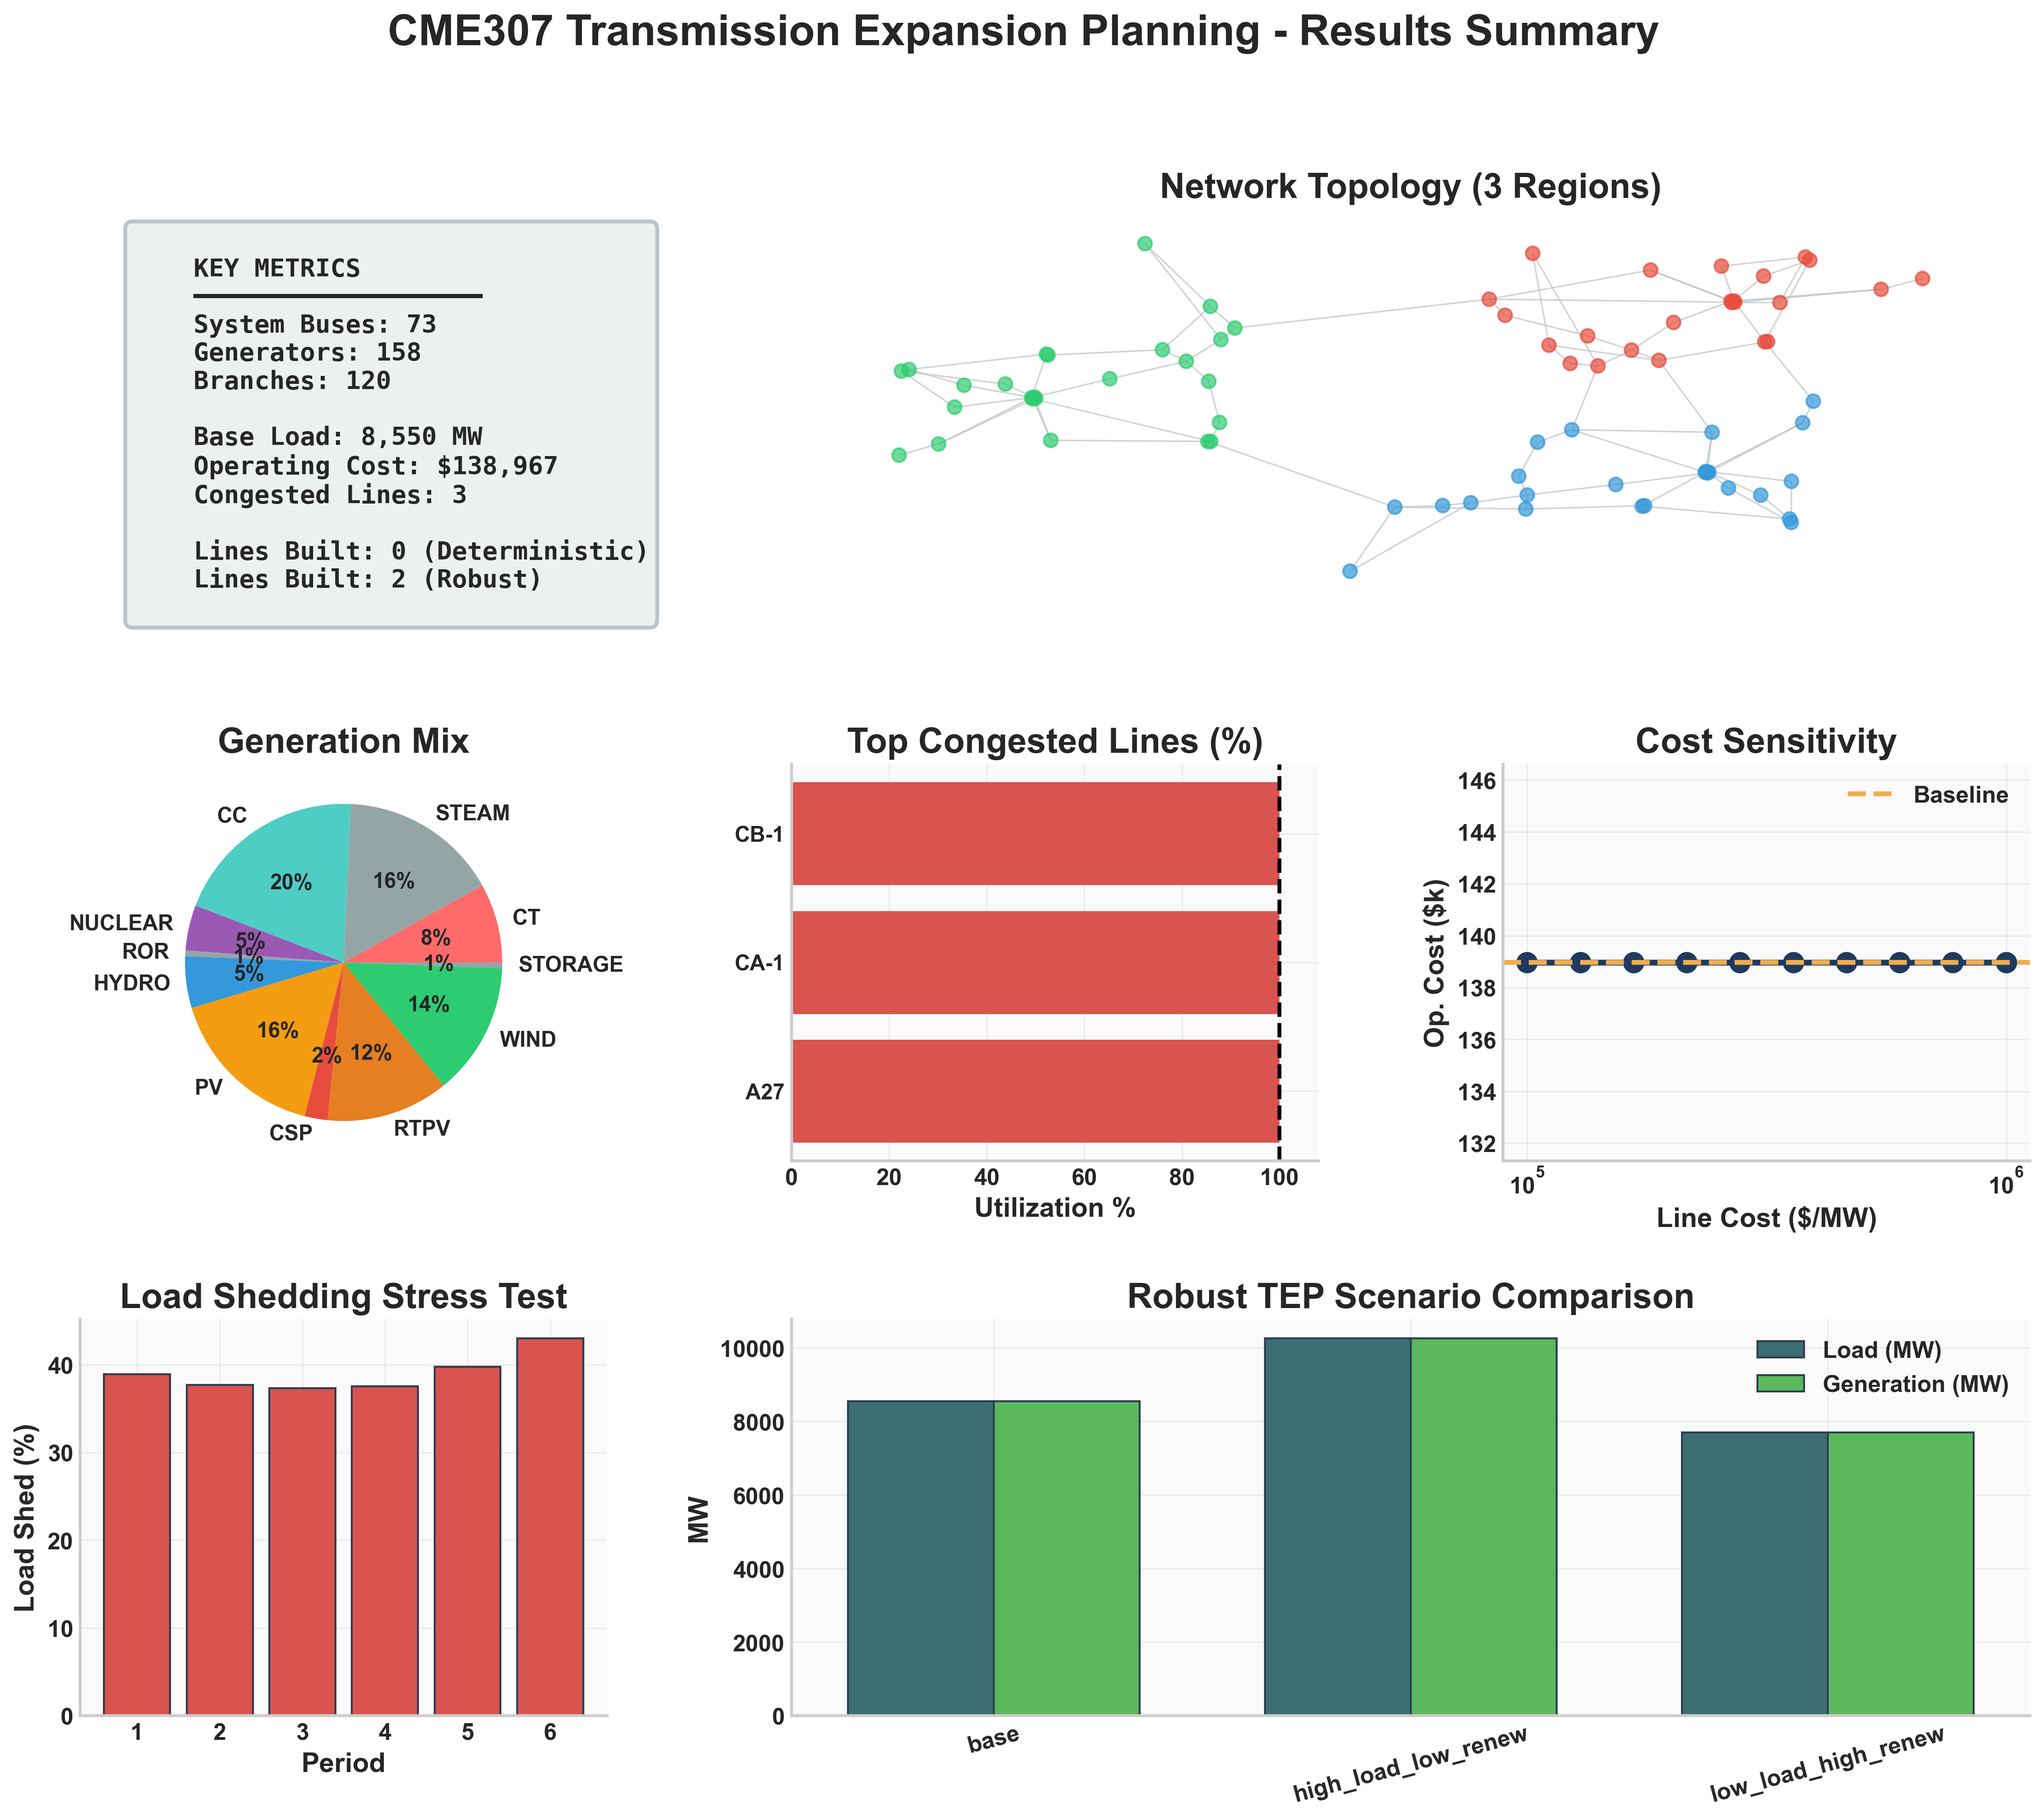
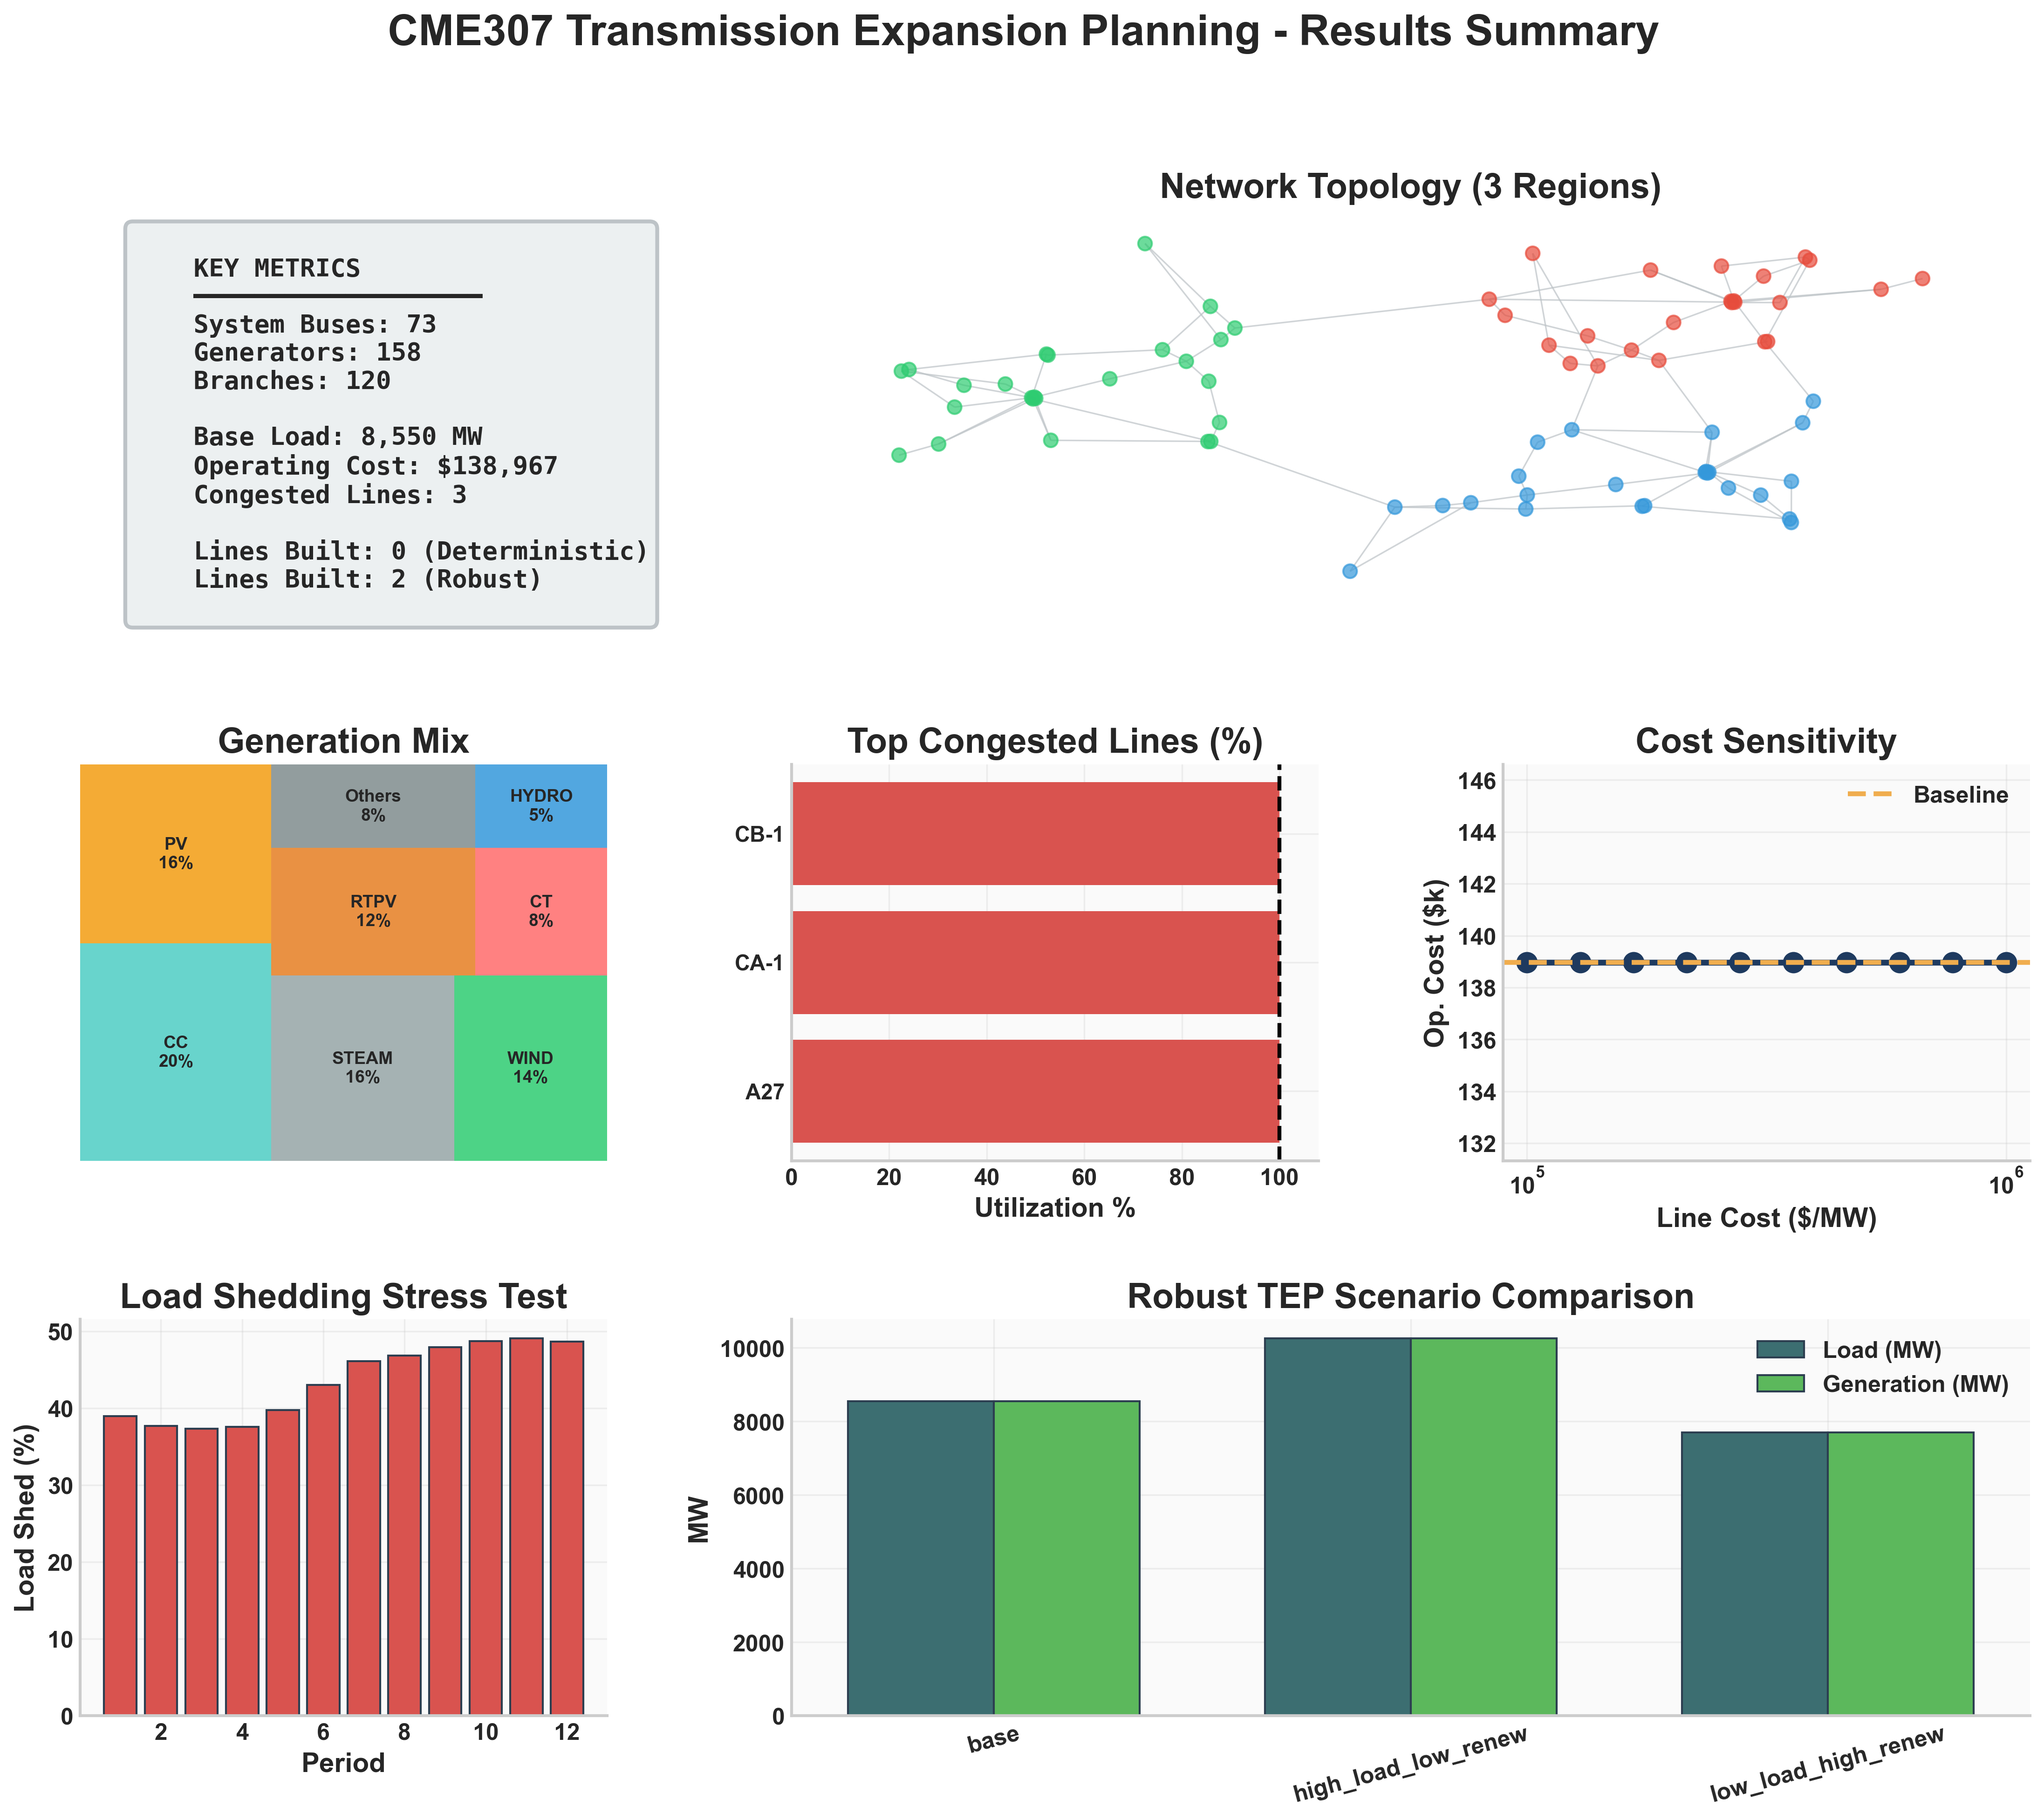
small changes

Changed region(s): [[0.0312, 0.4059, 0.3123, 0.6557], [0.0312, 0.7182, 0.2811, 0.968]]

diff --git a/src/analysis/enhanced_visualizations.py b/src/analysis/enhanced_visualizations.py
@@ -959,9 +959,10 @@ def create_summary_dashboard(results_dir: Path, data_loader,
     ax_network.set_title('Network Topology (3 Regions)', fontsize=18, fontweight='bold')
     ax_network.axis('off')
     
-    # 3. Generation Mix (middle left)
+    # 3. Generation Mix (middle left) - TREEMAP
     ax_gen = fig.add_subplot(gs[1, 0])
     if 'generation' in baseline_results:
+        import squarify
         generators = data_loader.get_generator_data()
         gen_by_type = {}
         for gen_id, power in baseline_results['generation'].items():
@@ -972,14 +973,24 @@ def create_summary_dashboard(results_dir: Path, data_loader,
                     gen_by_type[gen_type] = gen_by_type.get(gen_type, 0) + power
         
         if gen_by_type:
-            types = list(gen_by_type.keys())
-            powers = [gen_by_type[t] for t in types]
-            colors = [GEN_COLORS.get(t, '#95A5A6') for t in types]
-            wedges, texts, autotexts = ax_gen.pie(powers, labels=types, colors=colors, 
-                                                   autopct='%1.0f%%',
-                                                   textprops={'fontsize': 11, 'fontweight': 'bold'})
-            for autotext in autotexts:
-                autotext.set_fontweight('bold')
+            total = sum(gen_by_type.values())
+            # Separate large (>=5%) and small (<5%) categories
+            large_types = {t: p for t, p in gen_by_type.items() if p/total >= 0.05}
+            small_types = {t: p for t, p in gen_by_type.items() if p/total < 0.05}
+            
+            # Combine small types into "Others"
+            if small_types:
+                large_types['Others'] = sum(small_types.values())
+            
+            sorted_items = sorted(large_types.items(), key=lambda x: x[1], reverse=True)
+            types = [item[0] for item in sorted_items]
+            powers = [item[1] for item in sorted_items]
+            colors = [GEN_COLORS.get(t, '#7F8C8D') for t in types]
+            labels = [f"{t}\n{p/total*100:.0f}%" for t, p in zip(types, powers)]
+            
+            squarify.plot(sizes=powers, label=labels, color=colors, alpha=0.85,
+                         ax=ax_gen, text_kwargs={'fontsize': 9, 'fontweight': 'bold'})
+            ax_gen.axis('off')
     ax_gen.set_title('Generation Mix', fontsize=18, fontweight='bold')
     
     # 4. Congestion (middle center)

diff --git a/src/core/data_loader.py b/src/core/data_loader.py
@@ -107,7 +107,7 @@ class RTSDataLoader:
                 'susceptance': 1.0 / x_value if x_value > 0 else 0.0
             }
         return branch_params
-    
+
     def get_system_summary(self) -> Dict[str, Any]:
         """Get a summary of the power system."""
         return {
